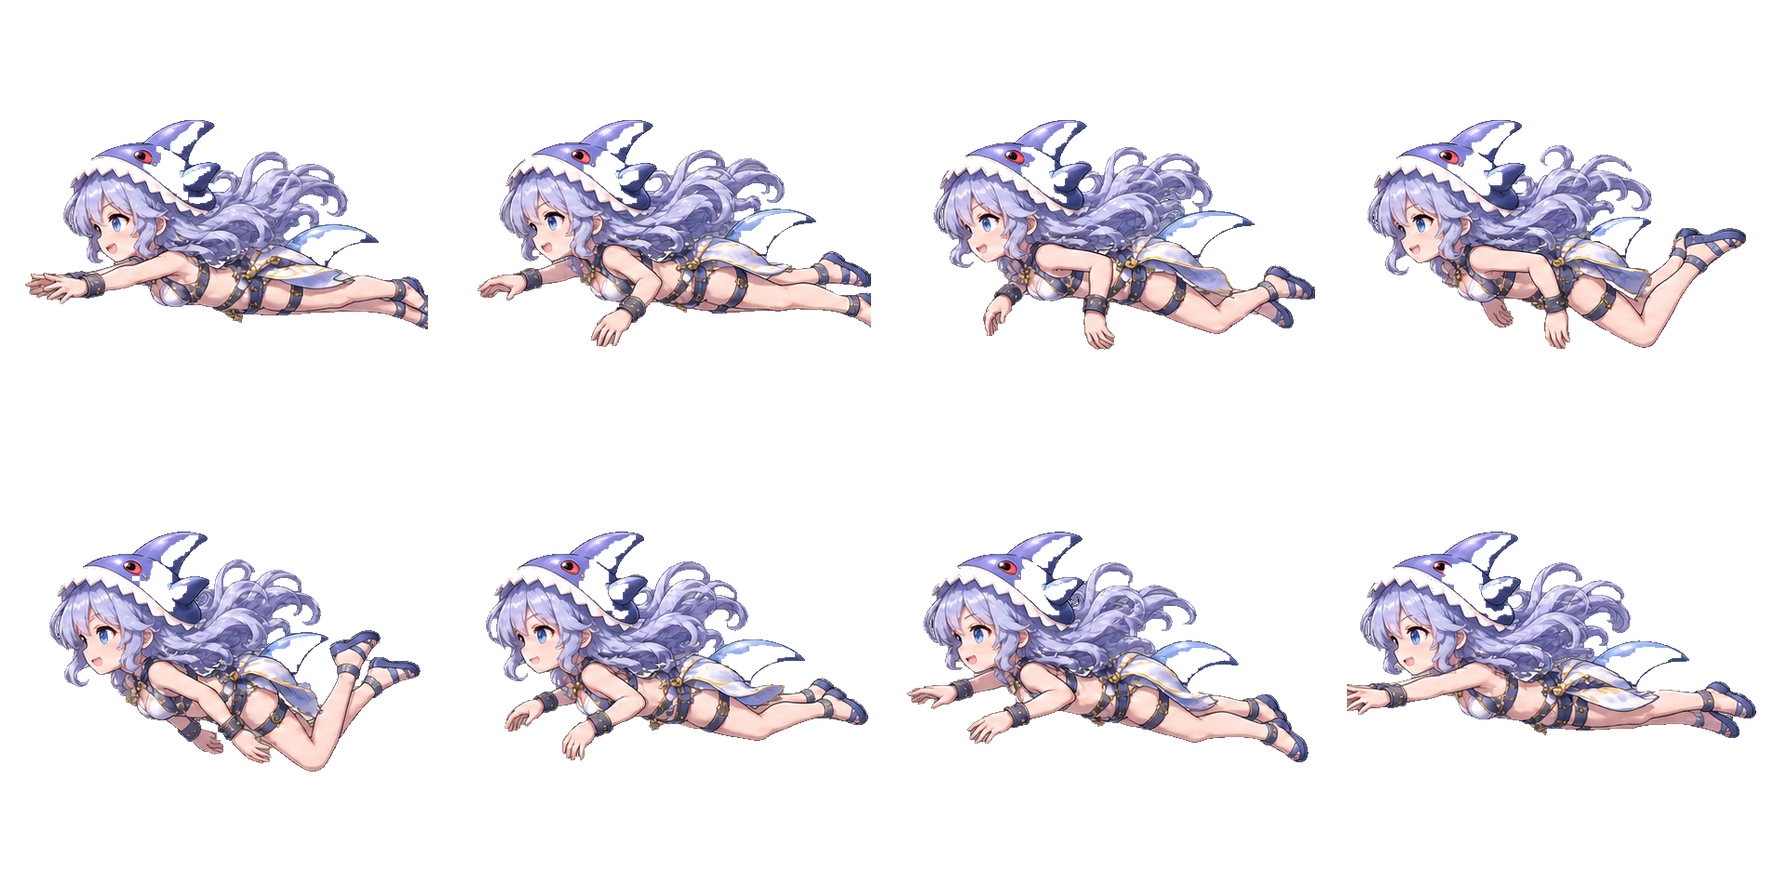
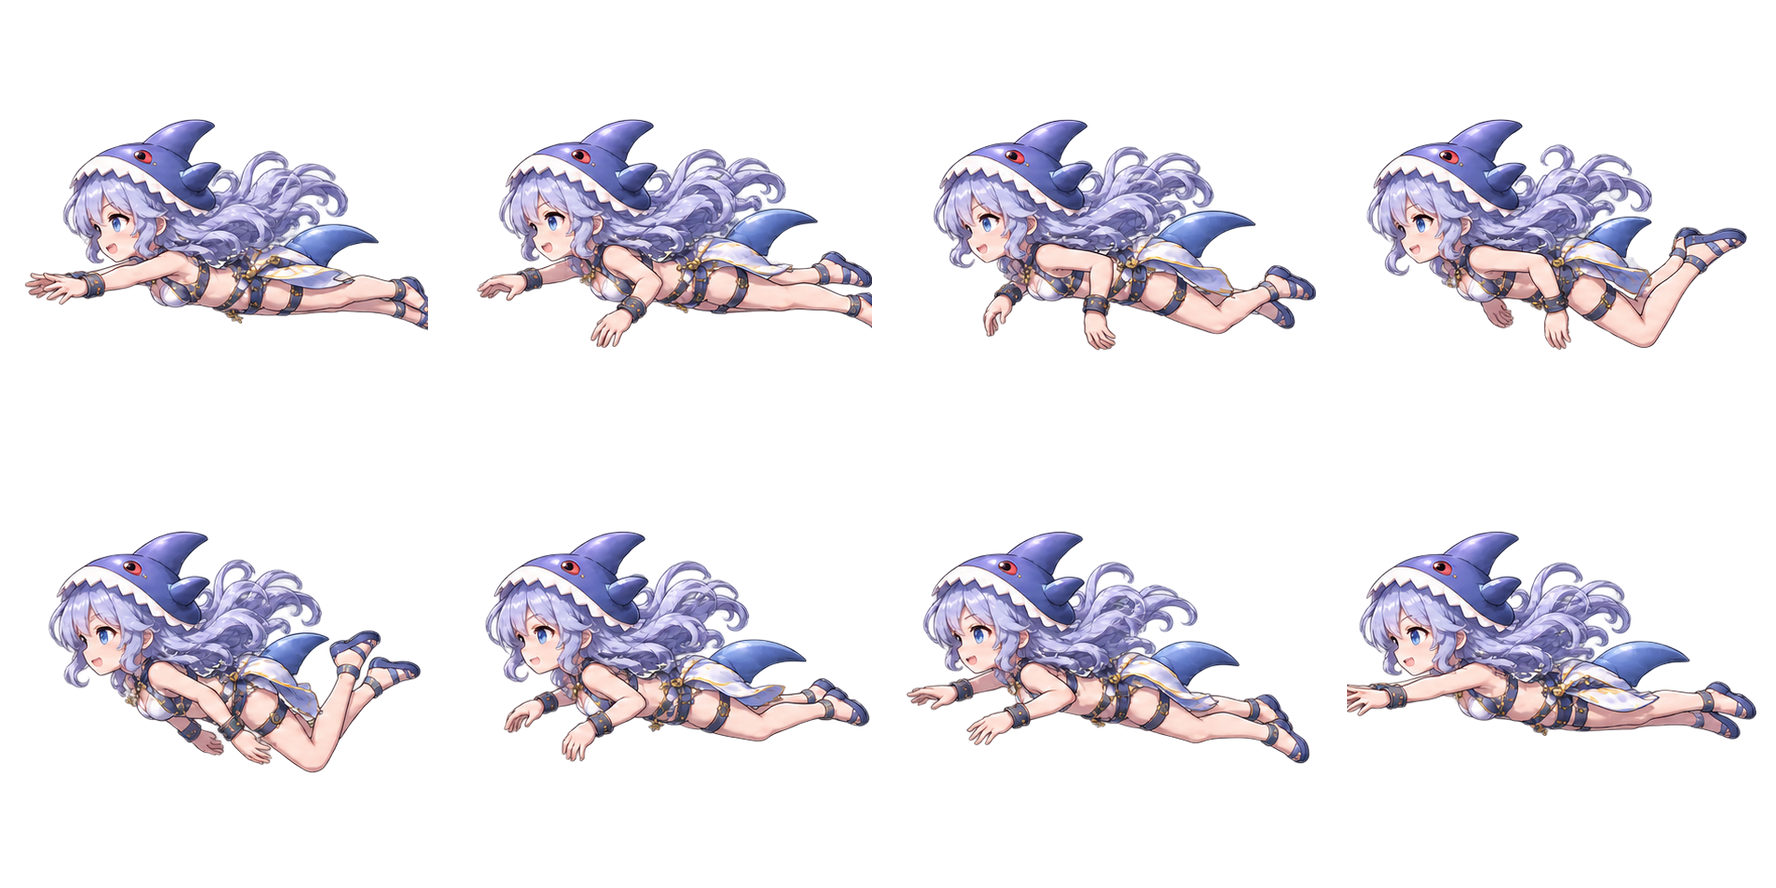
fix(human-fishing): restore shark hair and hood alpha from approved source sprite

diff --git a/human-fishing/index.html b/human-fishing/index.html
@@ -450,7 +450,7 @@ font:800 11px/1.2 system-ui,sans-serif;letter-spacing:.4px}
 <script src="./assets/octopus/octopus-sidekicks.js?v=9-clean-sprite-frames"></script>
 <script src="./assets/humans/ready.js?v=20261110-baby-v1"></script>
 <script src="./assets/humans/sisters-ready.js?v=20261112-sisters-v1"></script>
-<script src="./human-sprites.js?v=20261112-sisters-boundary-v4"></script>
+<script src="./human-sprites.js?v=20261112-shark-hair-restored-v5"></script>
 <script src="./gamepad.js?v=20261110-g8plus-haptics-v2"></script>
 <script src="./foley.js?v=20261111-capture-gun-recordings-v1"></script>
 <script src="./ambient.js?v=20261110-ambient-preload-v3"></script>

diff --git a/human-fishing/human-sprites.js b/human-fishing/human-sprites.js
@@ -31,7 +31,7 @@ if(enabled){
  Object.keys(swimVariantById).forEach(function(id){
   var variant=swimVariantById[id],img=new Image(); // Boot preloads this resource.
   img.decoding='async';
-  img.src='./assets/humans/baby_swim_'+variant+'_8f.png?v='+(Number(id)>=35?'20261112-sisters-boundary-v4':Number(id)>=24?'20261111-human-swim11-alpha-v4':'20261111-human-swim4-v1');
+  img.src='./assets/humans/baby_swim_'+variant+'_8f.png?v='+(Number(id)===36?'20261112-shark-hair-restored-v5':Number(id)>=35?'20261112-sisters-boundary-v4':Number(id)>=24?'20261111-human-swim11-alpha-v4':'20261111-human-swim4-v1');
   swimVariants[id]=img;
  });
 }
